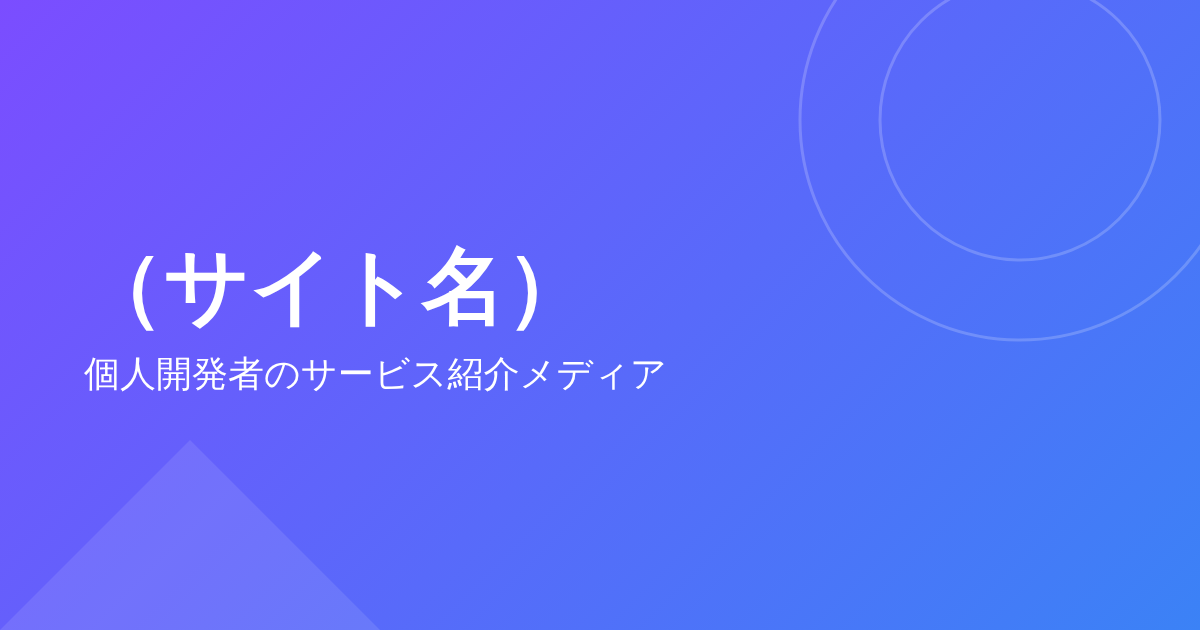
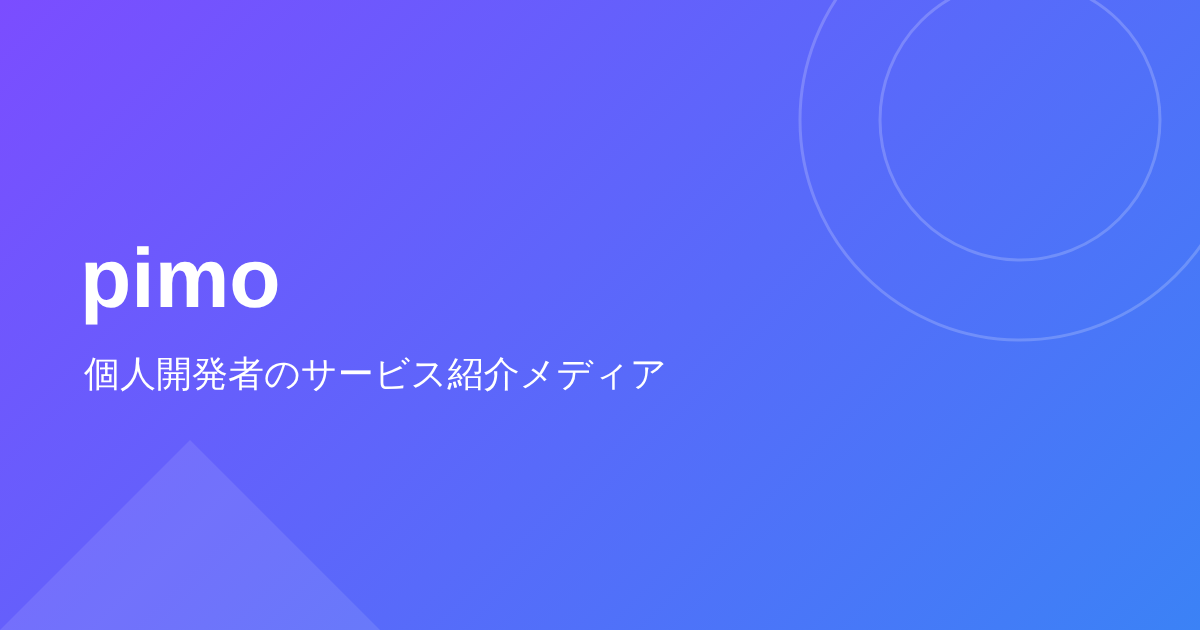
Set site name to pimo, production URL, and Vercel static config
Claude-Session: https://claude.ai/code/session_01Veewv9cCF3faLhmENUCbsC

Changed region(s): [[0.0617, 0.3921, 0.4625, 0.5127]]

diff --git a/media/src/site.config.ts b/media/src/site.config.ts
@@ -3,13 +3,13 @@
  */
 export const SITE = {
   /** サイト名（仮） */
-  name: '（サイト名）',
+  name: 'pimo',
   /** キャッチコピー（ヒーロー見出しの <b> で囲んだ部分が太字になる） */
   tagline: '個人開発の「**つくった理由**」を、**ひとつずつ**。',
   description:
     '個人開発者のサービスを紹介する日本語メディア。サービス紹介記事と開発者インタビューを掲載します。',
   /** 本番URL（canonical・sitemap・RSS・OGPに使用）。Cloudflare Pagesのドメインに合わせて変更 */
-  url: 'https://example.com',
+  url: 'https://pimo-two.vercel.app',
   lang: 'ja',
   /** 1ページあたりの記事数 */
   pageSize: 9,

diff --git a/media/README.md b/media/README.md
@@ -24,7 +24,7 @@ npm run preview   # ビルド結果の確認
 | robots.txt 内の sitemap URL | `public/robots.txt`（本番URLに書き換え） |
 | 共通OGP画像（1200×630 PNG） | `public/og-default.png` |
 
-サイト名は仮の「（サイト名）」です。`site.config.ts` の `name` を変えると全ページに反映されます。
+サイト名は「pimo」です。本番URLは `site.config.ts` の `url`（現在 `https://pimo-two.vercel.app`）。独自ドメインにしたら必ず更新してください。`site.config.ts` の `name` を変えると全ページに反映されます。
 `url` を本番ドメインにしないと、canonical / sitemap / RSS / OGP のURLが正しくなりません。
 
 ## 新しい記事を追加する手順
@@ -89,6 +89,8 @@ rm -r src/content/articles/samples
 | ビルドコマンド | `npm run build` |
 | 出力ディレクトリ | `dist` |
 | Node.js | 22 以上 |
+
+Vercel でも `vercel.json` の設定でそのままデプロイできます（ルートディレクトリ `media`）。
 
 ## ディレクトリ構成
 
